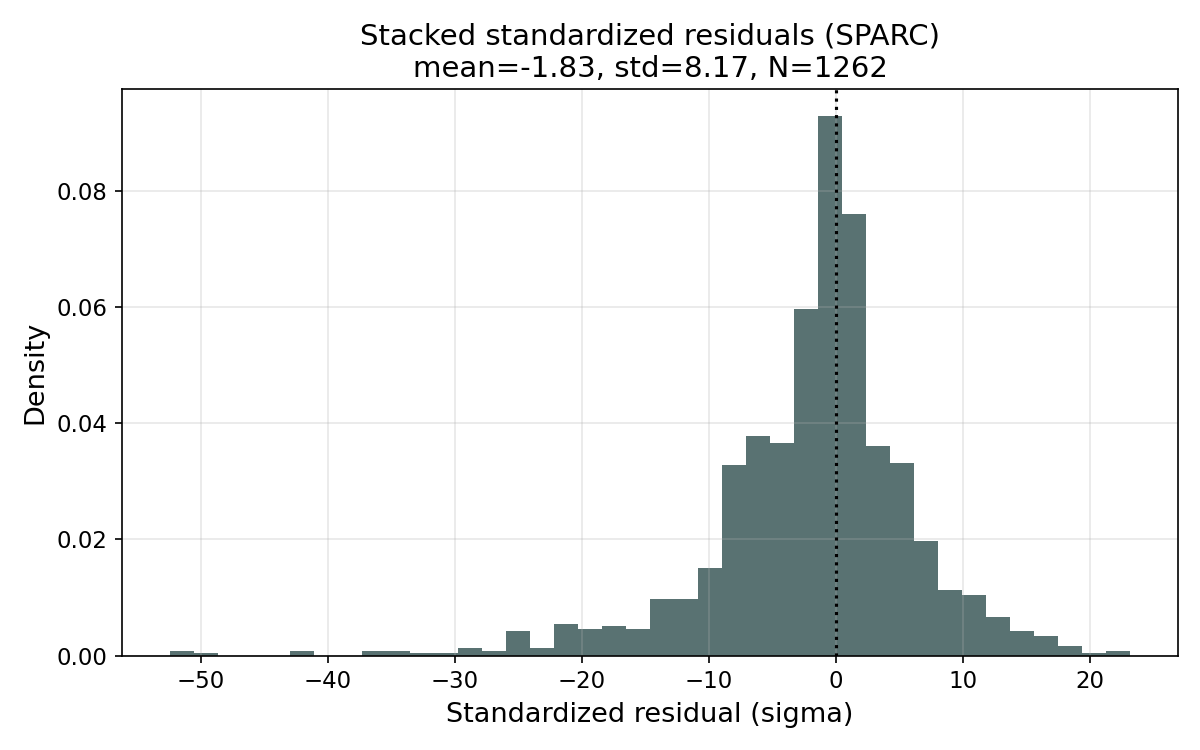
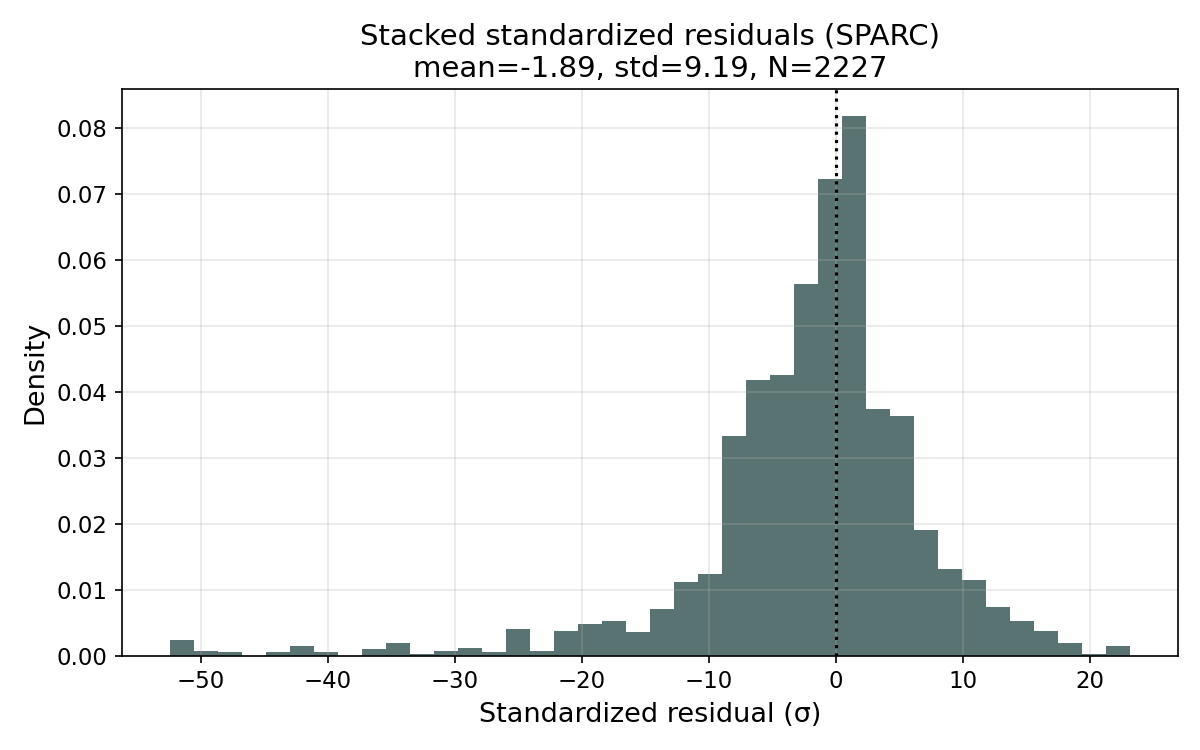
ED-SPARC refresh and PPC stacked residuals: regenerate docs/ED-SPARC.md; update images/ed_sparc_residual_hist.png (summary PNG/CSV left untracked per .gitignore)

diff --git a/docs/ED-SPARC.md b/docs/ED-SPARC.md
@@ -50,30 +50,30 @@ This file is generated by tools/generate_sparc_ed_table.py. Do not edit manually
 | NGC1090 | — | -53.568 | -222.893 | — | 169.325 | — | 5.000 |  |
 | NGC1705 | — | -9.015 | -185.961 | — | 176.946 | — | 5.000 |  |
 | NGC2366 | — | -11.009 | -105.571 | — | 94.562 | — | 5.000 |  |
-| NGC2403 | -373.640 | -131.360 | -1453.019 | 1079.380 | 1321.659 | -242.280 | — |  |
+| NGC2403 | -373.640 | -131.381 | -1453.019 | 1079.380 | 1321.638 | -242.259 | — |  |
 | NGC2683 | — | -22.768 | -50.444 | — | 27.676 | — | 5.000 |  |
-| NGC2841 | -598.584 | -1144.154 | -4036.782 | 3438.199 | 2892.628 | 545.571 | — |  |
-| NGC2903 | -172.664 | -1001.033 | -1193.474 | 1020.810 | 192.441 | 828.369 | — |  |
+| NGC2841 | -554.988 | -1144.159 | -4036.782 | 3481.795 | 2892.624 | 589.171 | — |  |
+| NGC2903 | -173.812 | -1000.966 | -1193.474 | 1019.662 | 192.508 | 827.154 | — |  |
 | NGC2915 | — | -20.750 | -478.729 | — | 457.978 | — | 5.000 |  |
 | NGC2955 | — | -364.665 | -357.705 | — | -6.960 | — | 5.000 |  |
-| NGC3198 | -343.239 | -42.687 | -951.499 | 608.261 | 908.812 | -300.551 | — |  |
-| NGC3521 | -109.980 | -450.312 | -444.151 | 334.170 | -6.162 | 340.332 | — |  |
+| NGC3198 | -343.239 | -42.606 | -951.499 | 608.261 | 908.893 | -300.632 | — |  |
+| NGC3521 | -111.204 | -450.288 | -444.151 | 332.947 | -6.137 | 339.084 | — |  |
 | NGC4010 | -11.445 | -18.314 | -37.406 | 25.961 | 19.093 | 6.869 | — |  |
-| NGC4013 | -28.189 | -158.268 | -517.347 | 489.158 | 359.079 | 130.079 | — |  |
-| NGC4157 | -16.849 | -127.181 | -128.598 | 111.749 | 1.417 | 110.333 | — |  |
+| NGC4013 | -28.229 | -158.216 | -517.347 | 489.118 | 359.131 | 129.987 | — |  |
+| NGC4157 | -17.053 | -127.229 | -128.598 | 111.545 | 1.369 | 110.176 | — |  |
 | NGC5005 | -11.869 | -108.018 | -104.806 | 92.937 | -3.212 | 96.149 | — |  |
-| NGC5033 | -38.856 | -165.955 | -948.557 | 909.701 | 782.602 | 127.099 | — |  |
-| NGC5055 | -159.558 | -1256.264 | -1400.164 | 1240.606 | 143.899 | 1096.706 | — |  |
-| NGC5907 | -76.051 | -24.715 | -486.710 | 410.659 | 461.995 | -51.336 | — |  |
+| NGC5033 | -35.241 | -166.006 | -948.557 | 913.317 | 782.552 | 130.765 | — |  |
+| NGC5055 | -158.538 | -1256.309 | -1400.164 | 1241.626 | 143.855 | 1097.772 | — |  |
+| NGC5907 | -77.450 | -24.727 | -486.710 | 409.261 | 461.983 | -52.722 | — |  |
 | NGC598 | -11.314 | -15.512 | -306.618 | 295.304 | 291.106 | 4.199 | — |  |
-| NGC5985 | -86.431 | -889.402 | -1891.503 | 1805.072 | 1002.101 | 802.970 | — |  |
-| NGC6503 | -23.695 | -55.070 | -886.208 | 862.513 | 831.138 | 31.375 | — |  |
-| NGC6946 | -33.034 | -444.878 | -432.795 | 399.760 | -12.083 | 411.844 | — |  |
-| NGC7331 | -86.966 | -1451.048 | -1447.642 | 1360.675 | -3.406 | 1364.081 | — |  |
-| NGC7793 | -24.261 | -25.902 | -36.287 | 12.026 | 10.386 | 1.640 | — |  |
-| UGC00128 | -41.722 | -7.592 | -1603.288 | 1561.566 | 1595.697 | -34.130 | — |  |
+| NGC5985 | -84.280 | -889.500 | -1891.503 | 1807.224 | 1002.003 | 805.220 | — |  |
+| NGC6503 | -23.520 | -55.099 | -886.208 | 862.687 | 831.109 | 31.578 | — |  |
+| NGC6946 | -30.478 | -444.896 | -432.795 | 402.317 | -12.101 | 414.418 | — |  |
+| NGC7331 | -84.821 | -1451.152 | -1447.642 | 1362.820 | -3.511 | 1366.331 | — |  |
+| NGC7793 | -24.210 | -25.914 | -36.287 | 12.077 | 10.374 | 1.704 | — |  |
+| UGC00128 | -45.998 | -7.632 | -1603.288 | 1557.290 | 1595.656 | -38.366 | — |  |
 | UGC0128 | — | -7.592 | — | — | — | — | 5.000 |  |
 | UGC05918 | -4.672 | -2.123 | -33.405 | 28.732 | 31.282 | -2.550 | — |  |
 | UGC06917 | -7.007 | -4.837 | -118.279 | 111.272 | 113.441 | -2.169 | — |  |
 | UGC12506 | -30.151 | -130.364 | -462.328 | 432.177 | 331.964 | 100.213 | — |  |
-| UGC128 | -46.067 | -7.592 | -1603.288 | 1557.222 | 1595.697 | -38.475 | — |  |
+| UGC128 | -45.998 | -7.632 | -1603.288 | 1557.290 | 1595.656 | -38.366 | — |  |
